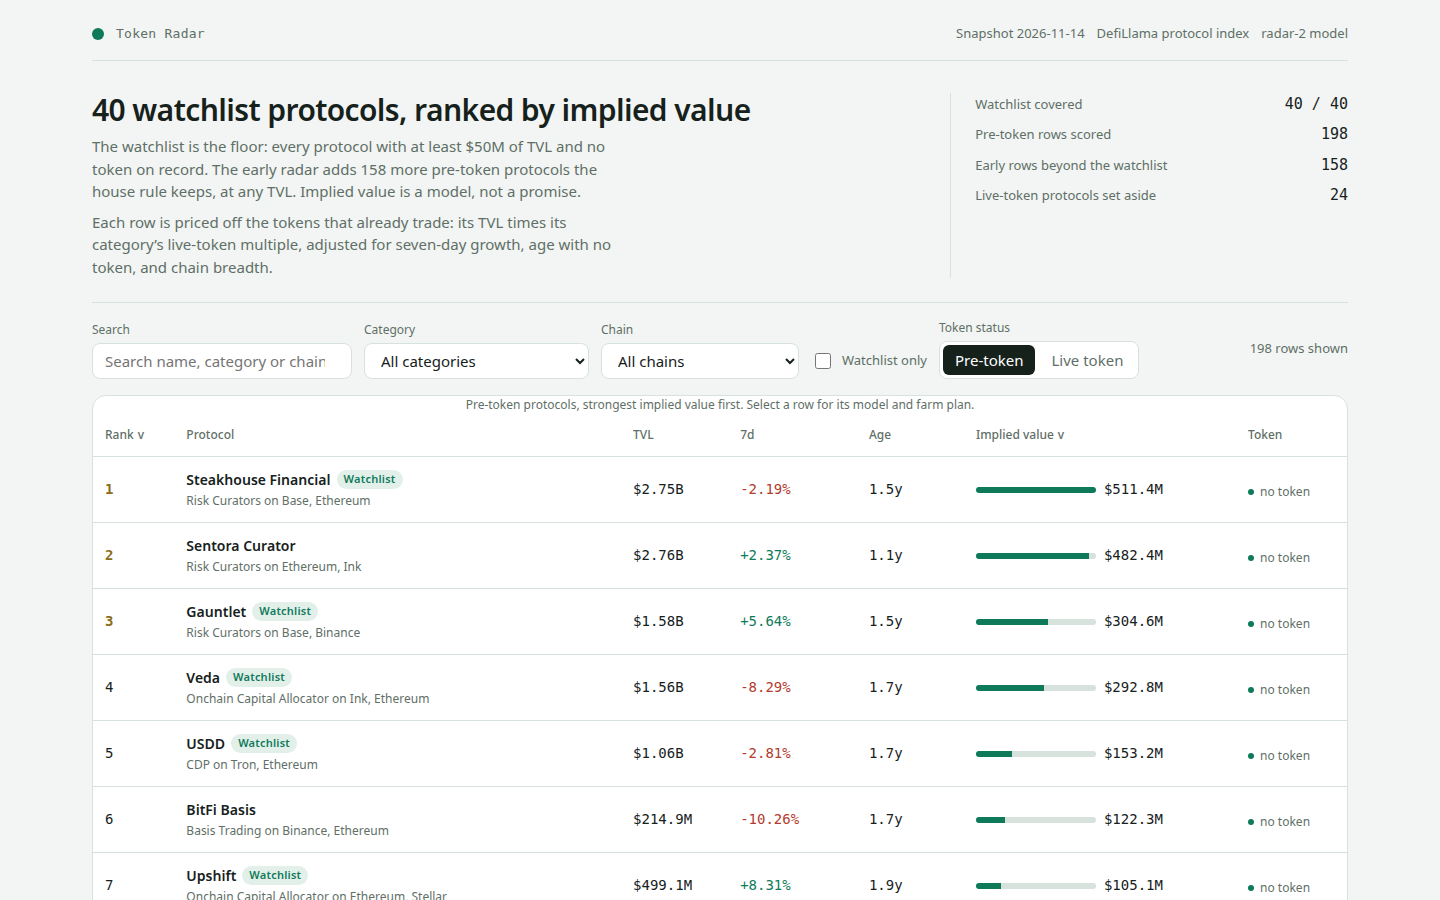
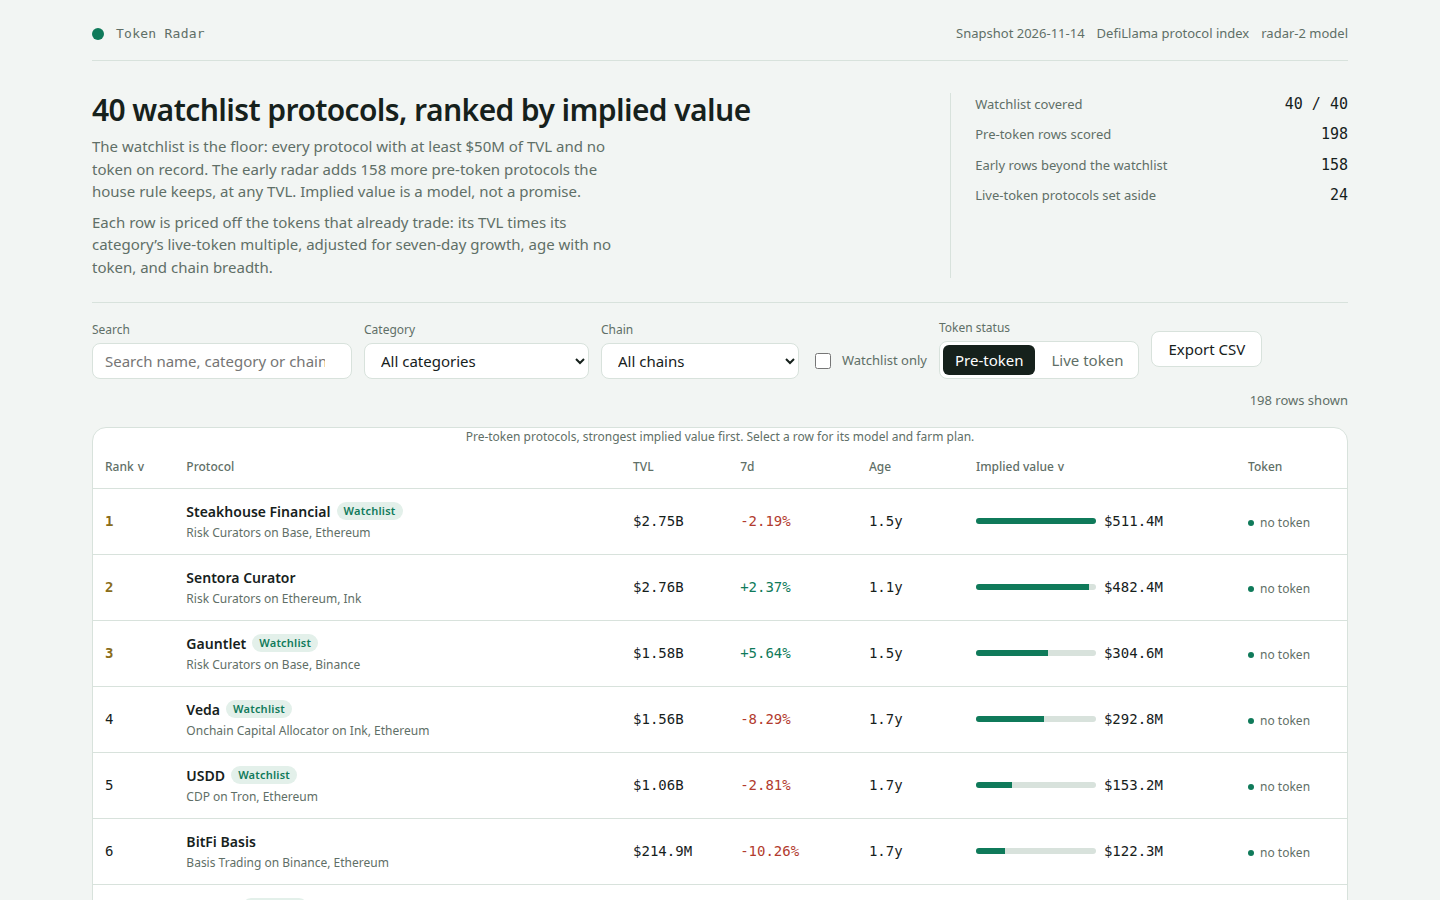
token-radar-01 entry: radar-2 model, shared derive.js, rewritten dashboard, generated screenshots, README

diff --git a/dashboard/app.js b/dashboard/app.js
@@ -102,6 +102,119 @@
     });
   }
 
+  // Chain totals are computed on the page from the same rows the board shows, so the panel can
+  // never disagree with the table. A protocol deployed on several chains counts under each of
+  // them, which is why the chain totals overlap and add up to more than the board itself.
+  function chainTotals() {
+    var byChain = {};
+    DATA.rows.forEach(function (r) {
+      (r.chains || []).forEach(function (c) {
+        var t = byChain[c];
+        if (!t) t = byChain[c] = { chain: c, count: 0, watchlist: 0, implied: 0, values: [], bestGrowth: null, top: null };
+        t.count += 1;
+        if (r.watchlist) t.watchlist += 1;
+        t.implied += r.implied_value_usd || 0;
+        t.values.push(r.implied_value_usd || 0);
+        if (r.change_7d !== null && r.change_7d !== undefined && (t.bestGrowth === null || r.change_7d > t.bestGrowth)) t.bestGrowth = r.change_7d;
+        if (!t.top || (r.implied_value_usd || 0) > (t.top.implied_value_usd || 0)) t.top = r;
+      });
+    });
+    return Object.keys(byChain).map(function (k) {
+      var t = byChain[k];
+      var ordered = t.values.slice().sort(function (a, b) { return a - b; });
+      t.median = ordered.length ? ordered[Math.floor(ordered.length / 2)] : 0;
+      delete t.values;
+      return t;
+    }).sort(function (a, b) { return b.implied - a.implied; });
+  }
+
+  function chainPanel() {
+    var totals = chainTotals();
+    var shown = totals.slice(0, 12);
+    var panelTotal = totals.reduce(function (s, t) { return s + t.implied; }, 0);
+    var boardTotal = DATA.rows.reduce(function (s, r) { return s + (r.implied_value_usd || 0); }, 0);
+    var head = el('div', { class: 'chains-head' },
+      el('div', null,
+        el('h2', { text: 'Implied value by chain' }),
+        el('p', { class: 'sub', text: 'Top ' + shown.length + ' of ' + totals.length + ' chains, by the implied value of their pre-token protocols. Select a chain to filter the board to it; select it again to clear.' })
+      ),
+      state.chain !== 'all'
+        ? el('button', { class: 'button', type: 'button', text: 'Clear chain filter', onclick: function () { state.chain = 'all'; writeHash(); render(); } })
+        : null
+    );
+    var grid = el('div', { class: 'chains' });
+    shown.forEach(function (t) {
+      var share = panelTotal ? (t.implied / panelTotal) * 100 : 0;
+      var topImplied = totals[0] ? totals[0].implied : 0;
+      var barWidth = topImplied ? Math.max(2, Math.round((t.implied / topImplied) * 100)) : 0;
+      var wlNote = t.watchlist ? ' · ' + t.watchlist + ' watchlist' : '';
+      var growthNote = t.bestGrowth === null ? '' : ' · best 7d ' + fmtPct(t.bestGrowth);
+      var row = el('button', {
+        type: 'button',
+        class: 'chain-row' + (state.chain === t.chain ? ' active' : ''),
+        'aria-pressed': state.chain === t.chain ? 'true' : 'false',
+        'aria-label': t.chain + ': ' + t.count + ' pre-token protocols, ' + fmtUsd(t.implied) + ' implied value. Filter the board to this chain.',
+        onclick: function () {
+          state.chain = state.chain === t.chain ? 'all' : t.chain;
+          state.tab = 'pre-token';
+          writeHash();
+          render();
+        }
+      },
+        el('span', { class: 'chain-name', text: t.chain }),
+        el('span', { class: 'chain-count', text: t.count + ' protocol' + (t.count === 1 ? '' : 's') + wlNote }),
+        el('span', { class: 'chain-bar', 'aria-hidden': 'true' }, el('i', { style: 'width:' + barWidth + '%' })),
+        el('span', { class: 'chain-implied num', text: fmtUsd(t.implied) }),
+        el('span', { class: 'chain-share num', text: share.toFixed(1) + '% of chain totals' }),
+        el('span', { class: 'chain-median sub', text: 'Median ' + fmtUsd(t.median) + growthNote }),
+        el('span', { class: 'chain-top sub', text: 'Top: ' + (t.top ? t.top.name : 'n/a') })
+      );
+      grid.appendChild(row);
+    });
+    var foot = el('p', { class: 'sub', text: 'Chain totals add up to ' + fmtUsd(panelTotal) + ' against ' + fmtUsd(boardTotal) + ' on the board. The gap is the overlap: a protocol deployed on several chains is counted under each of them.' });
+    return el('section', { class: 'panel chains-panel' }, head, grid, foot);
+  }
+
+  function csvCell(value) {
+    var s = value === null || value === undefined ? '' : String(value);
+    if (/[",\n\r]/.test(s)) return '"' + s.replace(/"/g, '""') + '"';
+    return s;
+  }
+
+  // The export takes exactly the rows the board is showing right now: the same filters, the same
+  // sort, the same tab. On the live-token tab the implied-value column carries the market cap and
+  // there is no farm plan to export, so that column stays empty.
+  function exportCsv() {
+    var preToken = state.tab === 'pre-token';
+    var list = preToken ? sortedRows(rows()) : DATA.live.slice();
+    var header = ['rank', 'name', 'category', 'chains', 'tvl_usd', 'change_7d', 'age_days', 'implied_value_usd', 'token_status', 'farm_steps'];
+    var lines = [header.join(',')];
+    list.forEach(function (r) {
+      var steps = preToken ? DERIVE.farmSteps(r, r.age_days).join(' | ') : '';
+      lines.push([
+        csvCell(preToken ? r.rank : 'live'),
+        csvCell(r.name),
+        csvCell(r.category || 'Other'),
+        csvCell((r.chains || []).join('; ')),
+        csvCell(r.tvl_usd),
+        csvCell(r.change_7d),
+        csvCell(r.age_days),
+        csvCell(preToken ? r.implied_value_usd : r.mcap_usd),
+        csvCell(preToken ? 'no token' : 'already trades'),
+        csvCell(steps)
+      ].join(','));
+    });
+    var blob = new Blob([lines.join('\n')], { type: 'text/csv;charset=utf-8' });
+    var url = URL.createObjectURL(blob);
+    var link = document.createElement('a');
+    link.href = url;
+    link.download = 'token-radar-' + (preToken ? 'pre-token' : 'live-token') + '-' + DATA.as_of + '.csv';
+    document.body.appendChild(link);
+    link.click();
+    document.body.removeChild(link);
+    window.setTimeout(function () { URL.revokeObjectURL(url); }, 1000);
+  }
+
   function header() {
     return el('header', { class: 'top' },
       el('div', { class: 'brand' }, el('span', { class: 'mark' }), el('span', { class: 'brand-name', text: 'Token Radar' })),
@@ -156,6 +269,7 @@
       el('div', { class: 'field' }, el('label', { for: 'chain', text: 'Chain' }), chainSelect),
       el('label', { class: 'check', for: 'wl' }, wlBox, 'Watchlist only'),
       el('div', { class: 'field' }, el('span', { class: 'sub', text: 'Token status' }), el('div', { class: 'tabs' }, pre, live)),
+      el('button', { class: 'button export', type: 'button', text: 'Export CSV', onclick: function () { exportCsv(); } }),
       el('span', { class: 'count', text: state.tab === 'pre-token' ? rows().length + ' rows shown' : DATA.live.length + ' live-token protocols' })
     );
   }
@@ -345,7 +459,10 @@
     shell.appendChild(lede());
     shell.appendChild(controls());
     shell.appendChild(state.tab === 'pre-token' ? boardTable() : liveTable());
-    if (state.tab === 'pre-token') shell.appendChild(modelPanel());
+    if (state.tab === 'pre-token') {
+      shell.appendChild(chainPanel());
+      shell.appendChild(modelPanel());
+    }
     app.appendChild(shell);
     app.setAttribute('aria-busy', 'false');
     if (!dialog.isConnected) app.appendChild(dialog);

diff --git a/dashboard/app.css b/dashboard/app.css
@@ -118,6 +118,28 @@ tbody tr[data-selected="true"] { background: var(--accent-soft); }
 .empty p { color: var(--muted); }
 .button { min-height: 36px; padding: 0 var(--step-4); border: 1px solid var(--border); border-radius: var(--radius-control); background: var(--surface); }
 .button.primary { background: var(--accent); border-color: var(--accent); color: var(--surface); }
+.export { align-self: center; }
+
+.chains-panel { margin-top: var(--step-4); padding: var(--step-5); display: grid; gap: var(--step-4); }
+.chains-head { display: flex; align-items: flex-start; justify-content: space-between; gap: var(--step-4); flex-wrap: wrap; }
+.chains-head h2 { margin-bottom: var(--step-1); }
+.chains-head .sub { max-width: 68ch; }
+.chains { display: grid; grid-template-columns: repeat(auto-fill, minmax(250px, 1fr)); gap: var(--step-2); }
+.chain-row {
+  display: grid; grid-template-columns: 1fr auto; gap: 2px var(--step-3); align-items: baseline;
+  padding: var(--step-3) var(--step-4); border: 1px solid var(--border); border-radius: var(--radius-control);
+  background: var(--surface); text-align: left; color: var(--ink);
+}
+.chain-row:hover { border-color: var(--accent); }
+.chain-row.active { border-color: var(--accent); background: var(--accent-soft); }
+.chain-name { font-weight: 600; }
+.chain-count { color: var(--muted); font-size: 12px; text-align: right; }
+.chain-bar { grid-column: 1 / -1; height: 6px; border-radius: 3px; background: var(--border); overflow: hidden; }
+.chain-bar i { display: block; height: 100%; background: var(--accent); }
+.chain-implied { font-weight: 600; }
+.chain-share { color: var(--muted); font-size: 12px; }
+.chain-median { grid-column: 1 / -1; }
+.chain-top { grid-column: 1 / -1; overflow-wrap: anywhere; }
 
 .detail {
   position: fixed; top: 0; right: 0; bottom: 0; width: min(560px, 94vw); z-index: 10;
